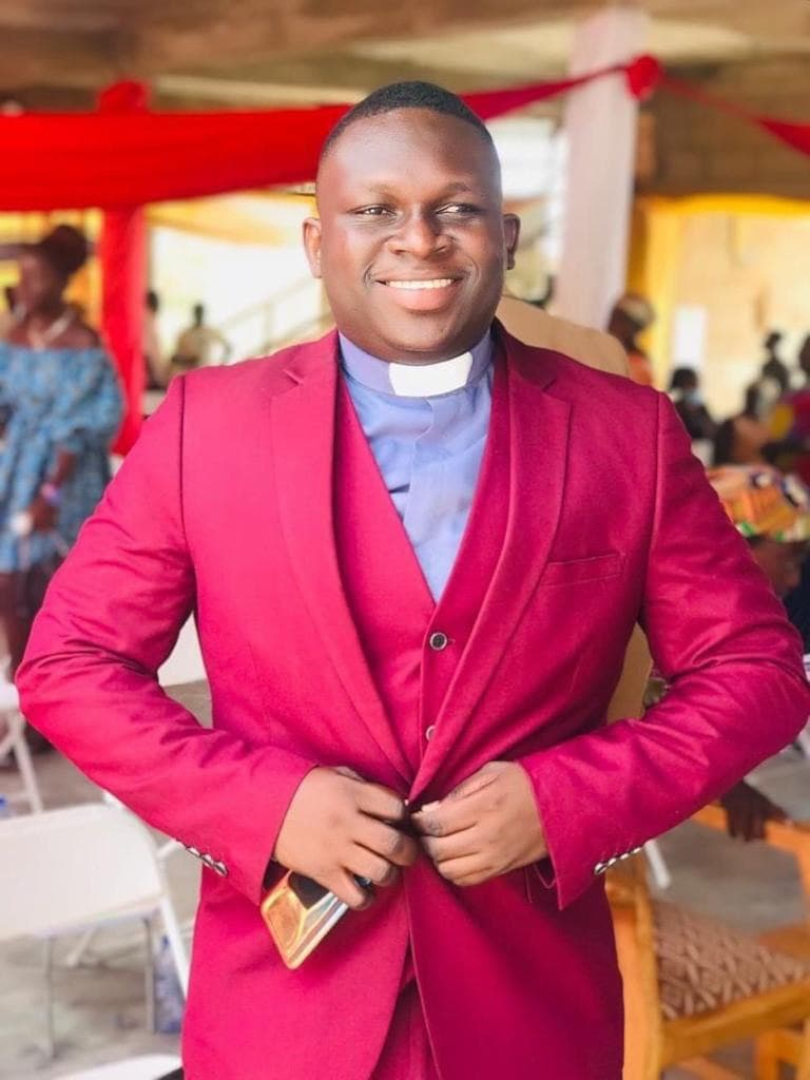
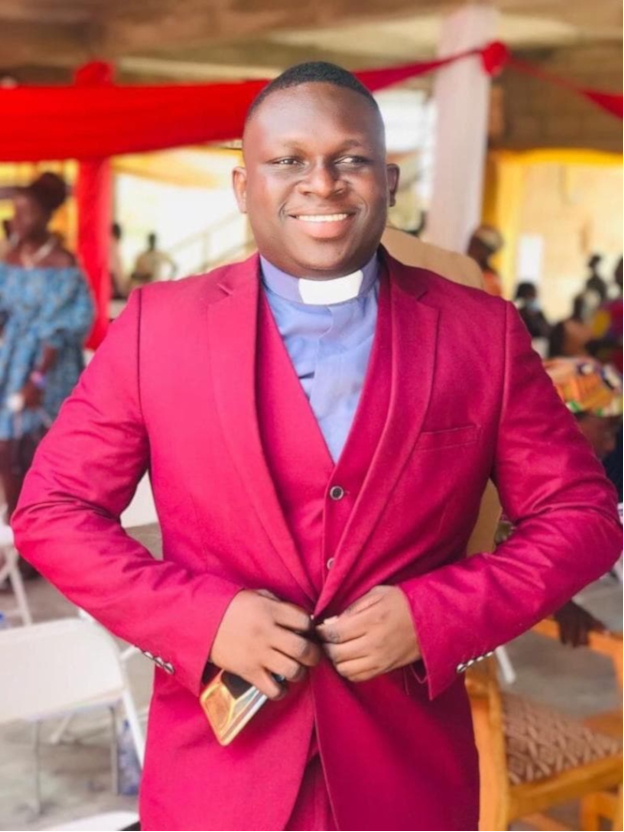
update

diff --git a/index.html b/index.html
@@ -111,11 +111,11 @@
                         Get to know us a little better
                     </p>
                 </div>
-                <a href="#">
-                <div class="cbox container">
+                <div class="container" id="new">
+                <a href="#" class="cbox">
                     <p>Click</p>
-                </div>
                </a>
+            </div>
                 
                
             </div>
@@ -130,11 +130,12 @@
                         We're here for you 
                     </p>
                 </div>
-                <a href="#">
-                <div class="cbox container">
+                <div class="container" id="new">
+                <a href="#" class="cbox ">
+                
                    <p>Click</p> 
-                </div>
-            </a>
+                    </a>
+            </div>
             </div>
             <div class="col-md-4" id="service-col3">
                 <div class="lbox container" id="newhere">
@@ -145,11 +146,12 @@
                         We can support you
                     </p>
                 </div>
-                <a href="#">
-                <div class="cbox container">
+                <div class="container" id="new">
+                <a href="#" class="cbox">
+                
                     <p>Click</p>
-                </div>  
-            </a>  
+                </a> 
+                </div> 
             </div>
             </div>
         </div>
@@ -199,9 +201,11 @@
                         Something general about the pastors
                     </article>
                 </side>
+                <div id="new">
             <a href="./pages/pastors.html" class="button">
                 Learn More
                 </a>
+                </div>
 
 
             </div>
@@ -226,11 +230,13 @@
                         introductory summary of national officers
                     </article>
                 </side>
+                <div id="new">
                 <a href="./pages/natofficers.html" class="button">
                 
                     Learn More
                
                 </a>
+                </div>
             </div>
 
 
@@ -253,11 +259,13 @@
                             introductory summary of Women Ministry
                         </article>
                     </side>
+                    <div id="new">
                     <a href="./pages/womenmin.html" class="button">
                     
                         Learn More
                     
                     </a>
+                    </div>
                 </div>
 
 
@@ -279,11 +287,13 @@
                                 introductory summary of Lead Ladies
                             </article>
                         </side>
+                        <div id="new">
                         <a href="./pages/leadladies.html" class="button">
                        
                             Learn More
                         
                         </a>
+                        </div>
                     </div>
 
                     <div class="row" id="banner-row">
@@ -304,10 +314,12 @@
                                     introductory summary of Youth Ministry
                                 </article>
                             </side>
+                            <div id="new">
                             <a href="./pages/youthmin.html" class="button">
                             
                                 Learn More
                             </a>
+                            </div>
                         </div>
 
                     <div class="row" id="banner-row">
@@ -328,11 +340,13 @@
                                     introductory summary of Childrens Ministry
                                 </article>
                             </side>
+                            <div id="new">
                             <a href="./pages/childmin.html" class="button">
                             
                                 Learn More
                             
                             </a>
+                            </div>
                         </div>
 
             

diff --git a/pages/pastors.html b/pages/pastors.html
@@ -106,7 +106,7 @@
                       <div class="responsive">
                         <div class="gallery">
                          
-                            <img src="../images/photo_2021-12-05_18-30-05.jpg" alt="Apostle Dadzie" width="600" height="400">
+                            <img src="../images/photo_2021-12-05_18-30-05.jpg" alt="Pastor Prince" width="600" height="800">
                           
                           <div class="desc"><strong>Pastor Prince Ayesu</strong>
                             <p> General Secretary</p>
@@ -231,7 +231,7 @@
                       <div class="container-fluid">
                           <div class="responsive">
                               <div class="gallery">
-                                  <img src="../images/Pastor Anthony Adjei Mensah.jpg" alt="Pastor anthony">
+                                  <img src="../images/Pastor Anthony Adjei Mensah.jpg" alt="Pastor anthony" width="600" height="400">
                                   <div class="desc"><strong>Pastor Anthony Mensah</strong>
                                     <p>TBA</p>
                                 </div>
@@ -241,7 +241,7 @@
 
                           <div class="responsive">
                             <div class="gallery">
-                                <img src="../images/Pastor Richard Akompong - Duakwa.jpg" alt="Pastor Akompong">
+                                <img src="../images/Pastor Richard Akompong - Duakwa.jpg" alt="Pastor Akompong" width="600" height="400">
                                 <div class="desc"><strong>Pastor Richard Akompong</strong>
                                   <p>Duakwa</p>
                               </div>
@@ -250,7 +250,7 @@
 
                         <div class="responsive">
                             <div class="gallery">
-                                <img src="../images/Pastor Frank akey - Okorase.jpg" alt="Pastor Frank">
+                                <img src="../images/Pastor Frank akey - Okorase.jpg" alt="Pastor Frank" width="600" height="400">
                                 <div class="desc"><strong>Pastor Frank Akey</strong>
                                   <p>Okorase, Koforidua</p>
                               </div>
@@ -259,7 +259,7 @@
 
                         <div class="responsive">
                             <div class="gallery">
-                                <img src="../images/Pastor Andrew Addo - Atekyem.jpg" alt="Pastor Andrew">
+                                <img src="../images/Pastor Andrew Addo - Atekyem.jpg" alt="Pastor Andrew" width="600" height="400">
                                 <div class="desc"><strong>Pastor Andrew Addo</strong>
                                   <p>Atekyem, Koforidua</p>
                               </div>
@@ -268,7 +268,7 @@
 
                         <div class="responsive">
                             <div class="gallery">
-                                <img src="../images/Pastor William Nobleman kweku Amamoo.jpg" alt="Pastor William">
+                                <img src="../images/Pastor William Nobleman kweku Amamoo.jpg" alt="Pastor William" width="600" height="400">
                                 <div class="desc"><strong>Pastor William Nobleman Kweku Amamoo</strong>
                                   <p>TBA</p>
                               </div>
@@ -278,7 +278,7 @@
 
                         <div class="responsive">
                             <div class="gallery">
-                                <img src="../images/Pastor Wisdom Vormawor - Akorabo.jpg" alt="Pastor Wisdom">
+                                <img src="../images/Pastor Wisdom Vormawor - Akorabo.jpg" alt="Pastor Wisdom" width="600" height="400">
                                 <div class="desc"><strong>Pastor Wisdom Vormawor</strong>
                                   <p>Akorabo</p>
                               </div>

diff --git a/style.css b/style.css
@@ -1,6 +1,7 @@
 *{
 	margin: 0;
 	padding: 0;
+	align-items: center;
 	
     
 }
@@ -138,44 +139,31 @@ margin-top: 80px;
 }
 
 .cbox {
-	height: 22%;
-	width: 29%;
+	
 	background-color: #fff;
 	color:#000000;
 	border: 2px solid black;
-	margin-top: 15px;
-	margin-left: 35%;
-	margin-bottom: 5px;
+	margin: 4px 2px;
 	display: inline-block;
 	text-align: center;
-	justify-content: baseline;
+	padding: 15px 32px;
+
+	
 }
 
-.cobox p{
+.cbox p{
 	font-weight: bolder;
 	display:block;
 }
 
-.cbox #lside{
-	height: 12% !important;
-	width: 20% !important;
-	background-color: #fff;
-	color:#000000;
-	border: 2px solid black;
-	margin-top: 15px;
-	margin-left: 30%;
-	margin-bottom: 5px;
-	display: inline-block;
-	text-align: center;	
 
-}
 
 #about-col{
 	margin-top: 50px;
 }
 
 .button{
-	background-color: #ffffff;
+ background-color: #ffffff;
   border: 2px solid #000000;
   color: rgb(0, 0, 0);
   padding: 15px 32px;
@@ -183,9 +171,14 @@ margin-top: 80px;
   text-decoration: none;
   display: inline-block;
   font-size: 16px;
-  margin: 4px 2px;
-  cursor: pointer
-  
+  margin: 4px 2px 4px 2px;
+  cursor: pointer; 
+}
+
+#new{
+margin-left: 30%;
+margin-bottom: 5px;
+display: block;
 }
 
 
@@ -305,11 +298,11 @@ padding-top: 10px;
 		margin-left: 20%;
 	}
 
-	.cbox{
+	#new{
 		margin-top: 30px;
 		margin-bottom: 35%;
-		margin-left: 33%;
-		height: 15%;
+		margin-left: 50%;
+		
 	}
 
 	lbox{
@@ -372,9 +365,10 @@ padding-top: 10px;
 	text-decoration: underline;
 }
 
-.cbox:hover{
+.button .cbox:hover{
 	background-color: #000000;
-	color: #fff;
+	color: #fff !important;
+	border: 2px solid #fff;
 }
 
 

diff --git a/pages/addpages.css b/pages/addpages.css
@@ -113,9 +113,12 @@
 	width:100px;
 	text-align:center;
 }
+section{
+	display:grid;
+}
 
 section .gallery{
-	display:block;
+	display:flexbox;
 }
 
 div.gallery {
@@ -145,6 +148,7 @@ div.gallery {
 	padding: 0 6px;
 	float: left;
 	width: 24.99999%;
+	display: flexbox;
   }
   
   @media only screen and (max-width: 700px) {
